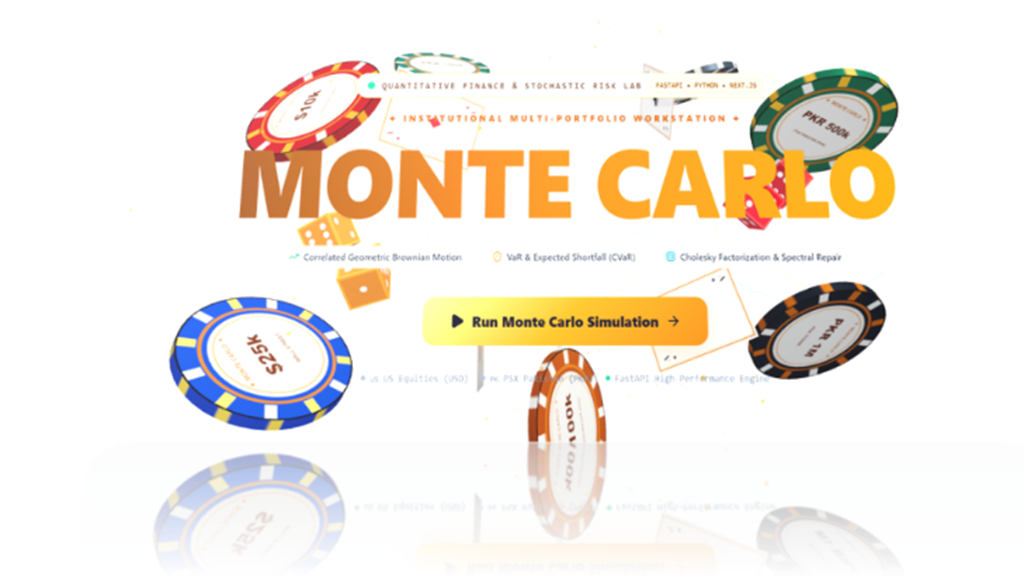
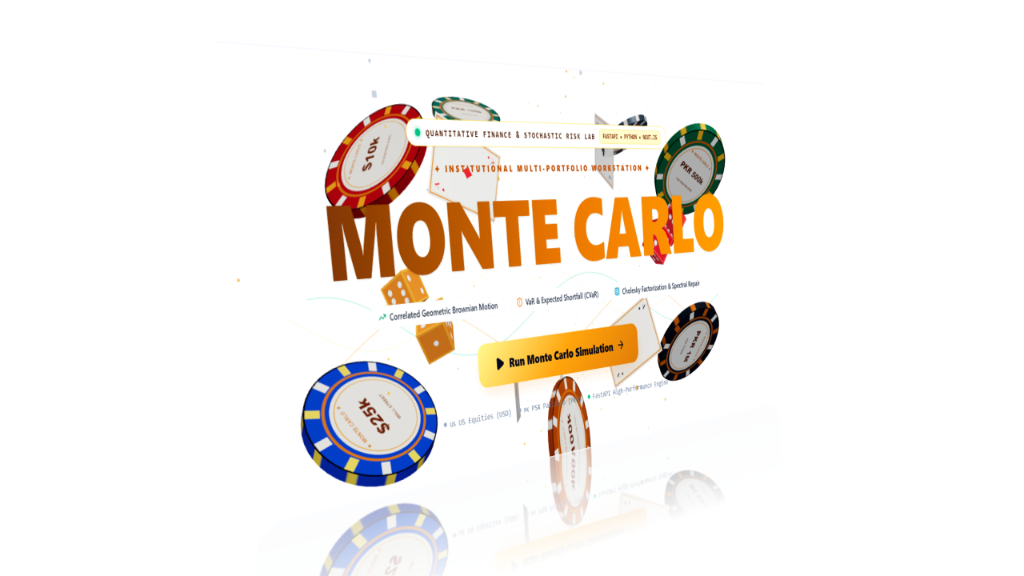
Update Monte Carlo Risk Simulator card image with user-provided 3D perspective mockup

diff --git a/index.html b/index.html
@@ -534,7 +534,7 @@
       <article class="project-card" data-category="quant web-application">
         <div class="project-visual">
           <span class="project-tag">Quantitative Finance</span>
-          <img src="assets/images/monte-carlo-risk-simulator.png?v=3" alt="Monte Carlo Risk Simulator" loading="lazy" decoding="async" style="width:100%;height:100%;object-fit:cover;object-position:center">
+          <img src="assets/images/monte-carlo-risk-simulator.png?v=4" alt="Monte Carlo Risk Simulator" loading="lazy" decoding="async" style="width:100%;height:100%;object-fit:cover;object-position:center">
         </div>
         <div class="project-body">
           <div class="project-impact">Portfolio Risk &amp; Quantitative Modeling</div>
